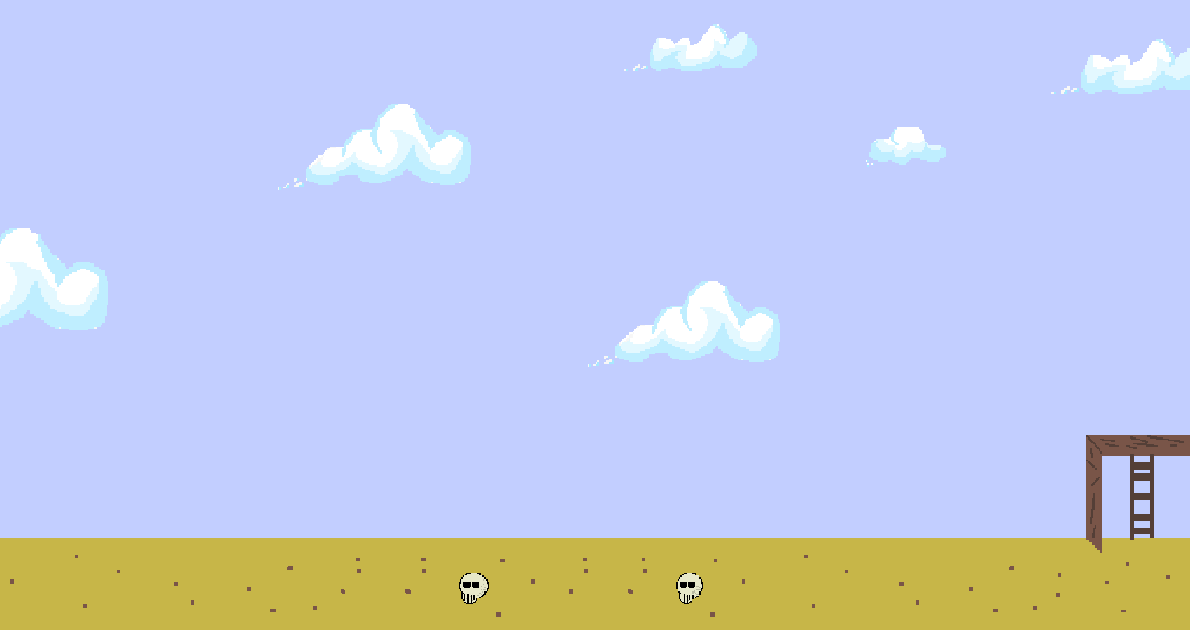
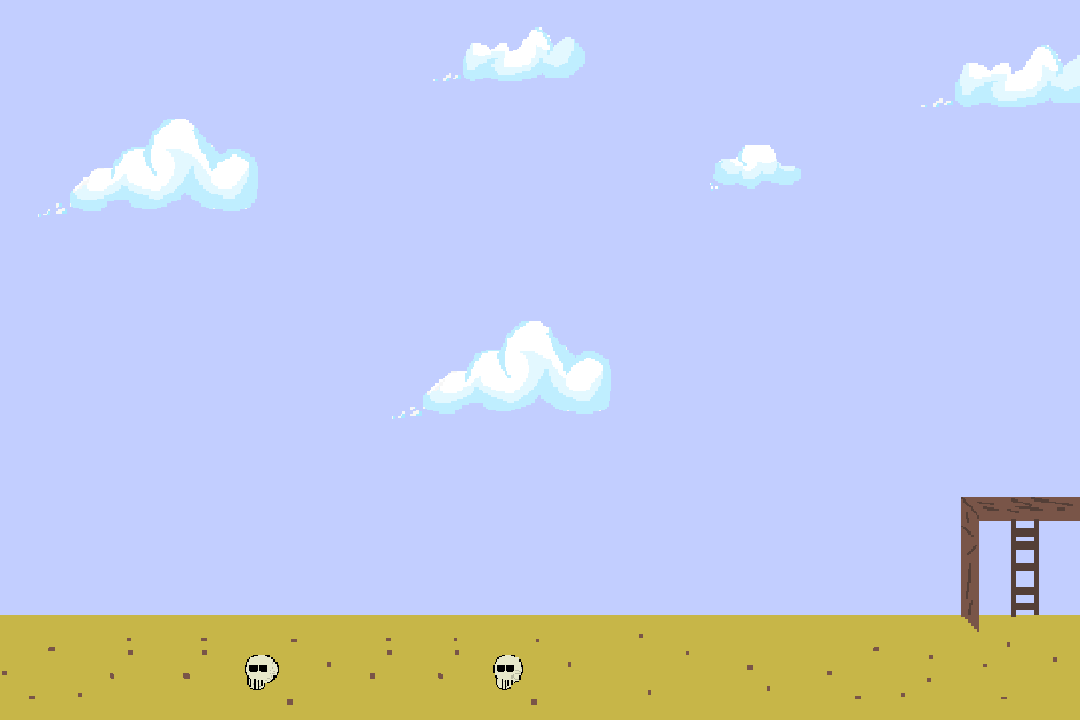
Screen resized

diff --git a/TowerDefense/TowerDefense/main.cpp b/TowerDefense/TowerDefense/main.cpp
@@ -57,10 +57,10 @@ int main()
 
 	////////////////////////////// Create window //////////////////////////////
 	sf::Vector2f dimensions;
-	dimensions.x = sf::VideoMode::getDesktopMode().width;
-	dimensions.y = sf::VideoMode::getDesktopMode().height;
-
-	sf::RenderWindow window(sf::VideoMode(dimensions.x, dimensions.y), "Defend the Joe!", sf::Style::Fullscreen);
+	dimensions.x = background.getSize().x;
+	dimensions.y = background.getSize().y;
+	sf::RenderWindow window(sf::VideoMode(1080, 720), "Defend the Joe!");
+	//sf::RenderWindow window(sf::VideoMode(dimensions.x, dimensions.y), "Defend the Joe!", sf::Style::Fullscreen);
 		
 	////////////////////////////// Temporary Placement ///////////////////////////////
 	float targetHealth = 200;
